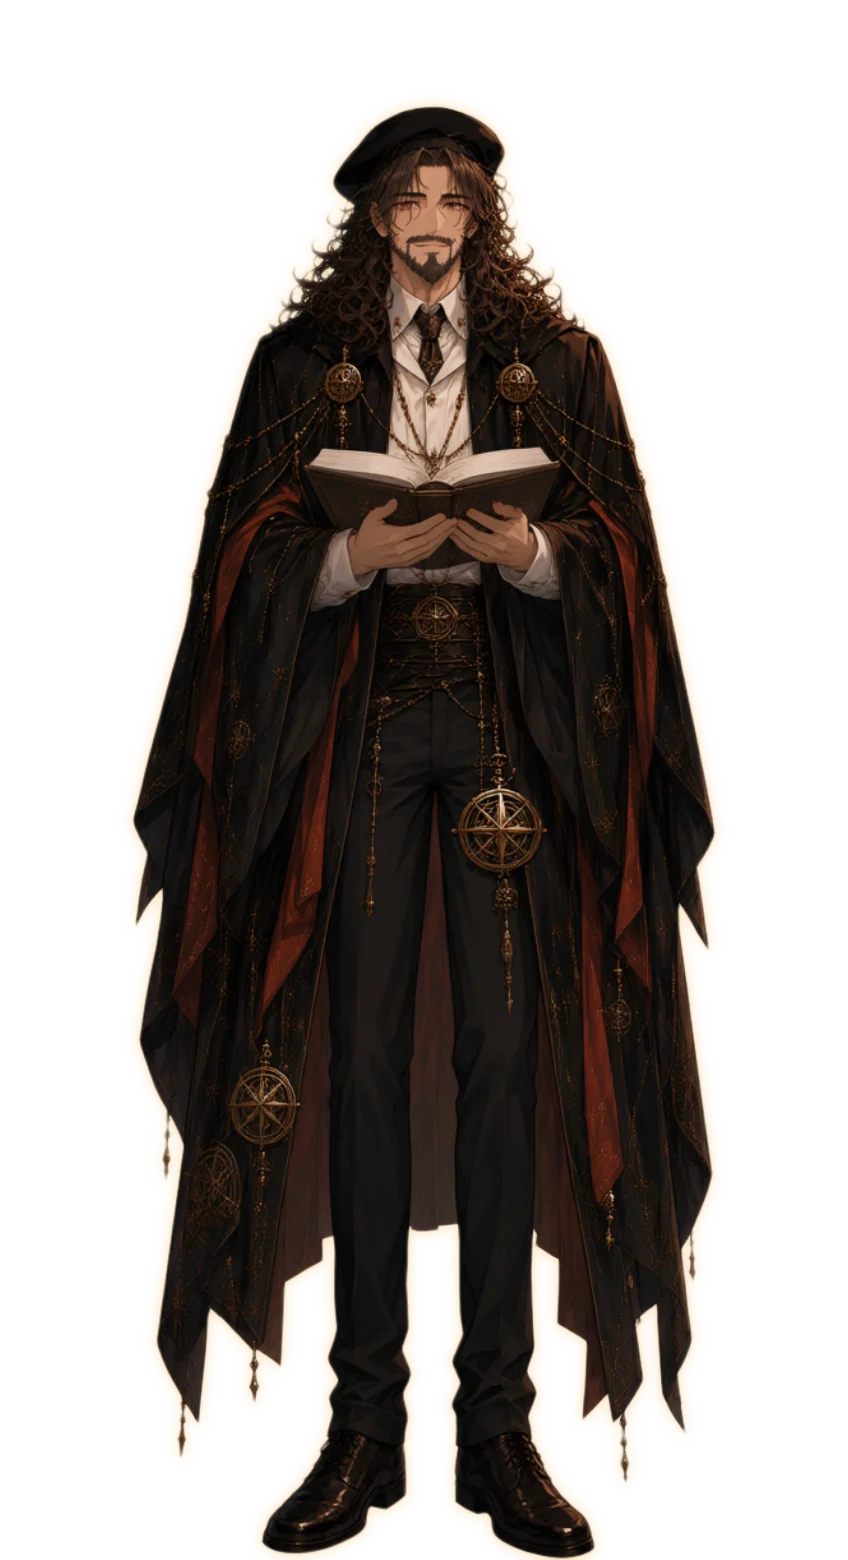
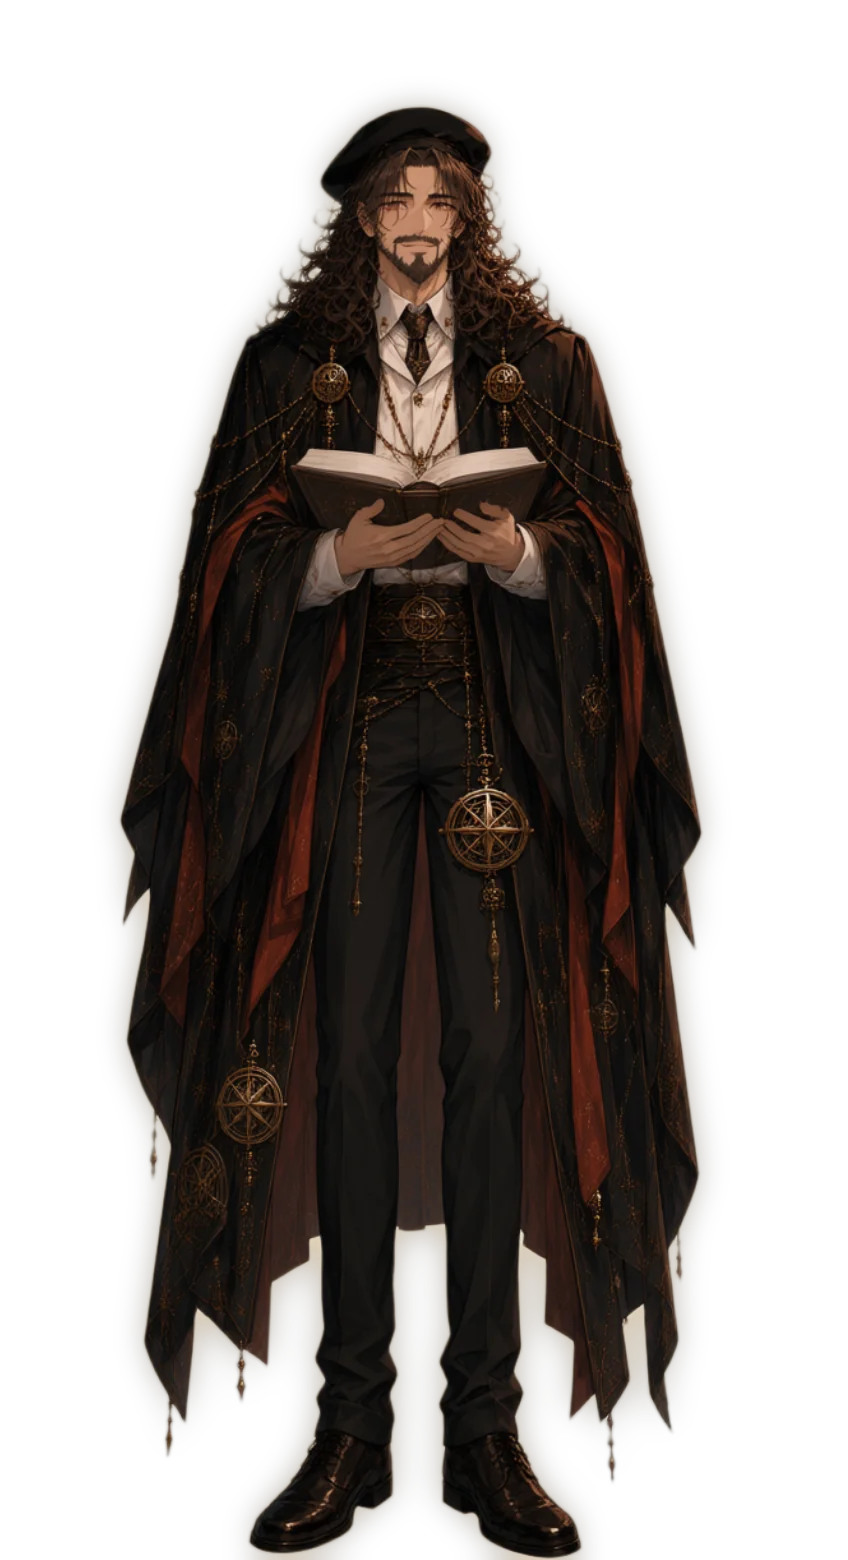
fix: ヴィンチアobserveの透過配置を既存head-align手順で再作成

Changed region(s): [[0.1226, 0.0615, 0.8585, 1.0]]

diff --git a/docs/07_visual/tachie_processing.md b/docs/07_visual/tachie_processing.md
@@ -54,7 +54,9 @@ magick defringed.png -resize x<target_px> assets/images/<char>/normal.png
 
 既存キャラの1ポーズだけを差し替える場合、finalize 出力をそのまま採用しない。ヒュー `observe` 追加時と同じく、既存ポーズ群の確定ジオメトリ（canvas 幅/高さ、足元、頭位置）へ厳密に合わせる。差し替え前後と同キャラ `normal` を `magick <file> -alpha extract -threshold 1%/5%/10%/50% -format "%@" info:` で比較し、低アルファの外周だけが広がっていないか確認する。
 
-Vincia `observe` のように、生成rawの髪束や小物周辺をBiRefNetが広めに拾う絵では、同じ2倍パイプラインでも `GLOW_SIGMA=20` が見た目上強すぎることがある。その場合は本体bbox（50%以上）と頭位置を維持したまま `GLOW_SIGMA=6` 前後で再finalizeし、旧ポーズ/同キャラnormalの低アルファbboxに合わせる。これは半分解像度に縮小する処理ではなく、2倍解像度のまま外周グローだけを既存に寄せる補正。
+この工程で `GLOW_SIGMA` / `SIDE_M` / `TOP_M` を個別調整してはいけない。2倍解像度の住人立ち絵は全キャラ同一の `RES=1024 SIDE_M=80 TOP_M=104 GLOW_SIGMA=20` で finalize し、既存ジオメトリへの合わせ込みは透明キャンバスのパディングだけで行う。`refit_observe.py` のような `alpha>128` bbox crop + 固定余白の使い捨て処理は、低アルファの暖色グローを切るため再利用禁止。
+
+既存85キーの head-align は PIL の `canvas.paste(img, (x, y), img)` で透明キャンバスに配置している。`alpha_composite` や ImageMagick `-composite` で置くと半透明ピクセルの RGB がランプ色のまま残り、黒背景で外周が不自然に明るく見える。Vincia `observe`（本を開いたT6採用）も同じ手順で、finalize 後の `50% bbox` を旧 observe の本体位置へ合わせるため `848x1560` 透明キャンバスに `+38+0` で `paste(..., mask=img)` 配置した。
 
 ## 作り直し時の再現
 1. 新しい LoRA 立ち絵を用意。